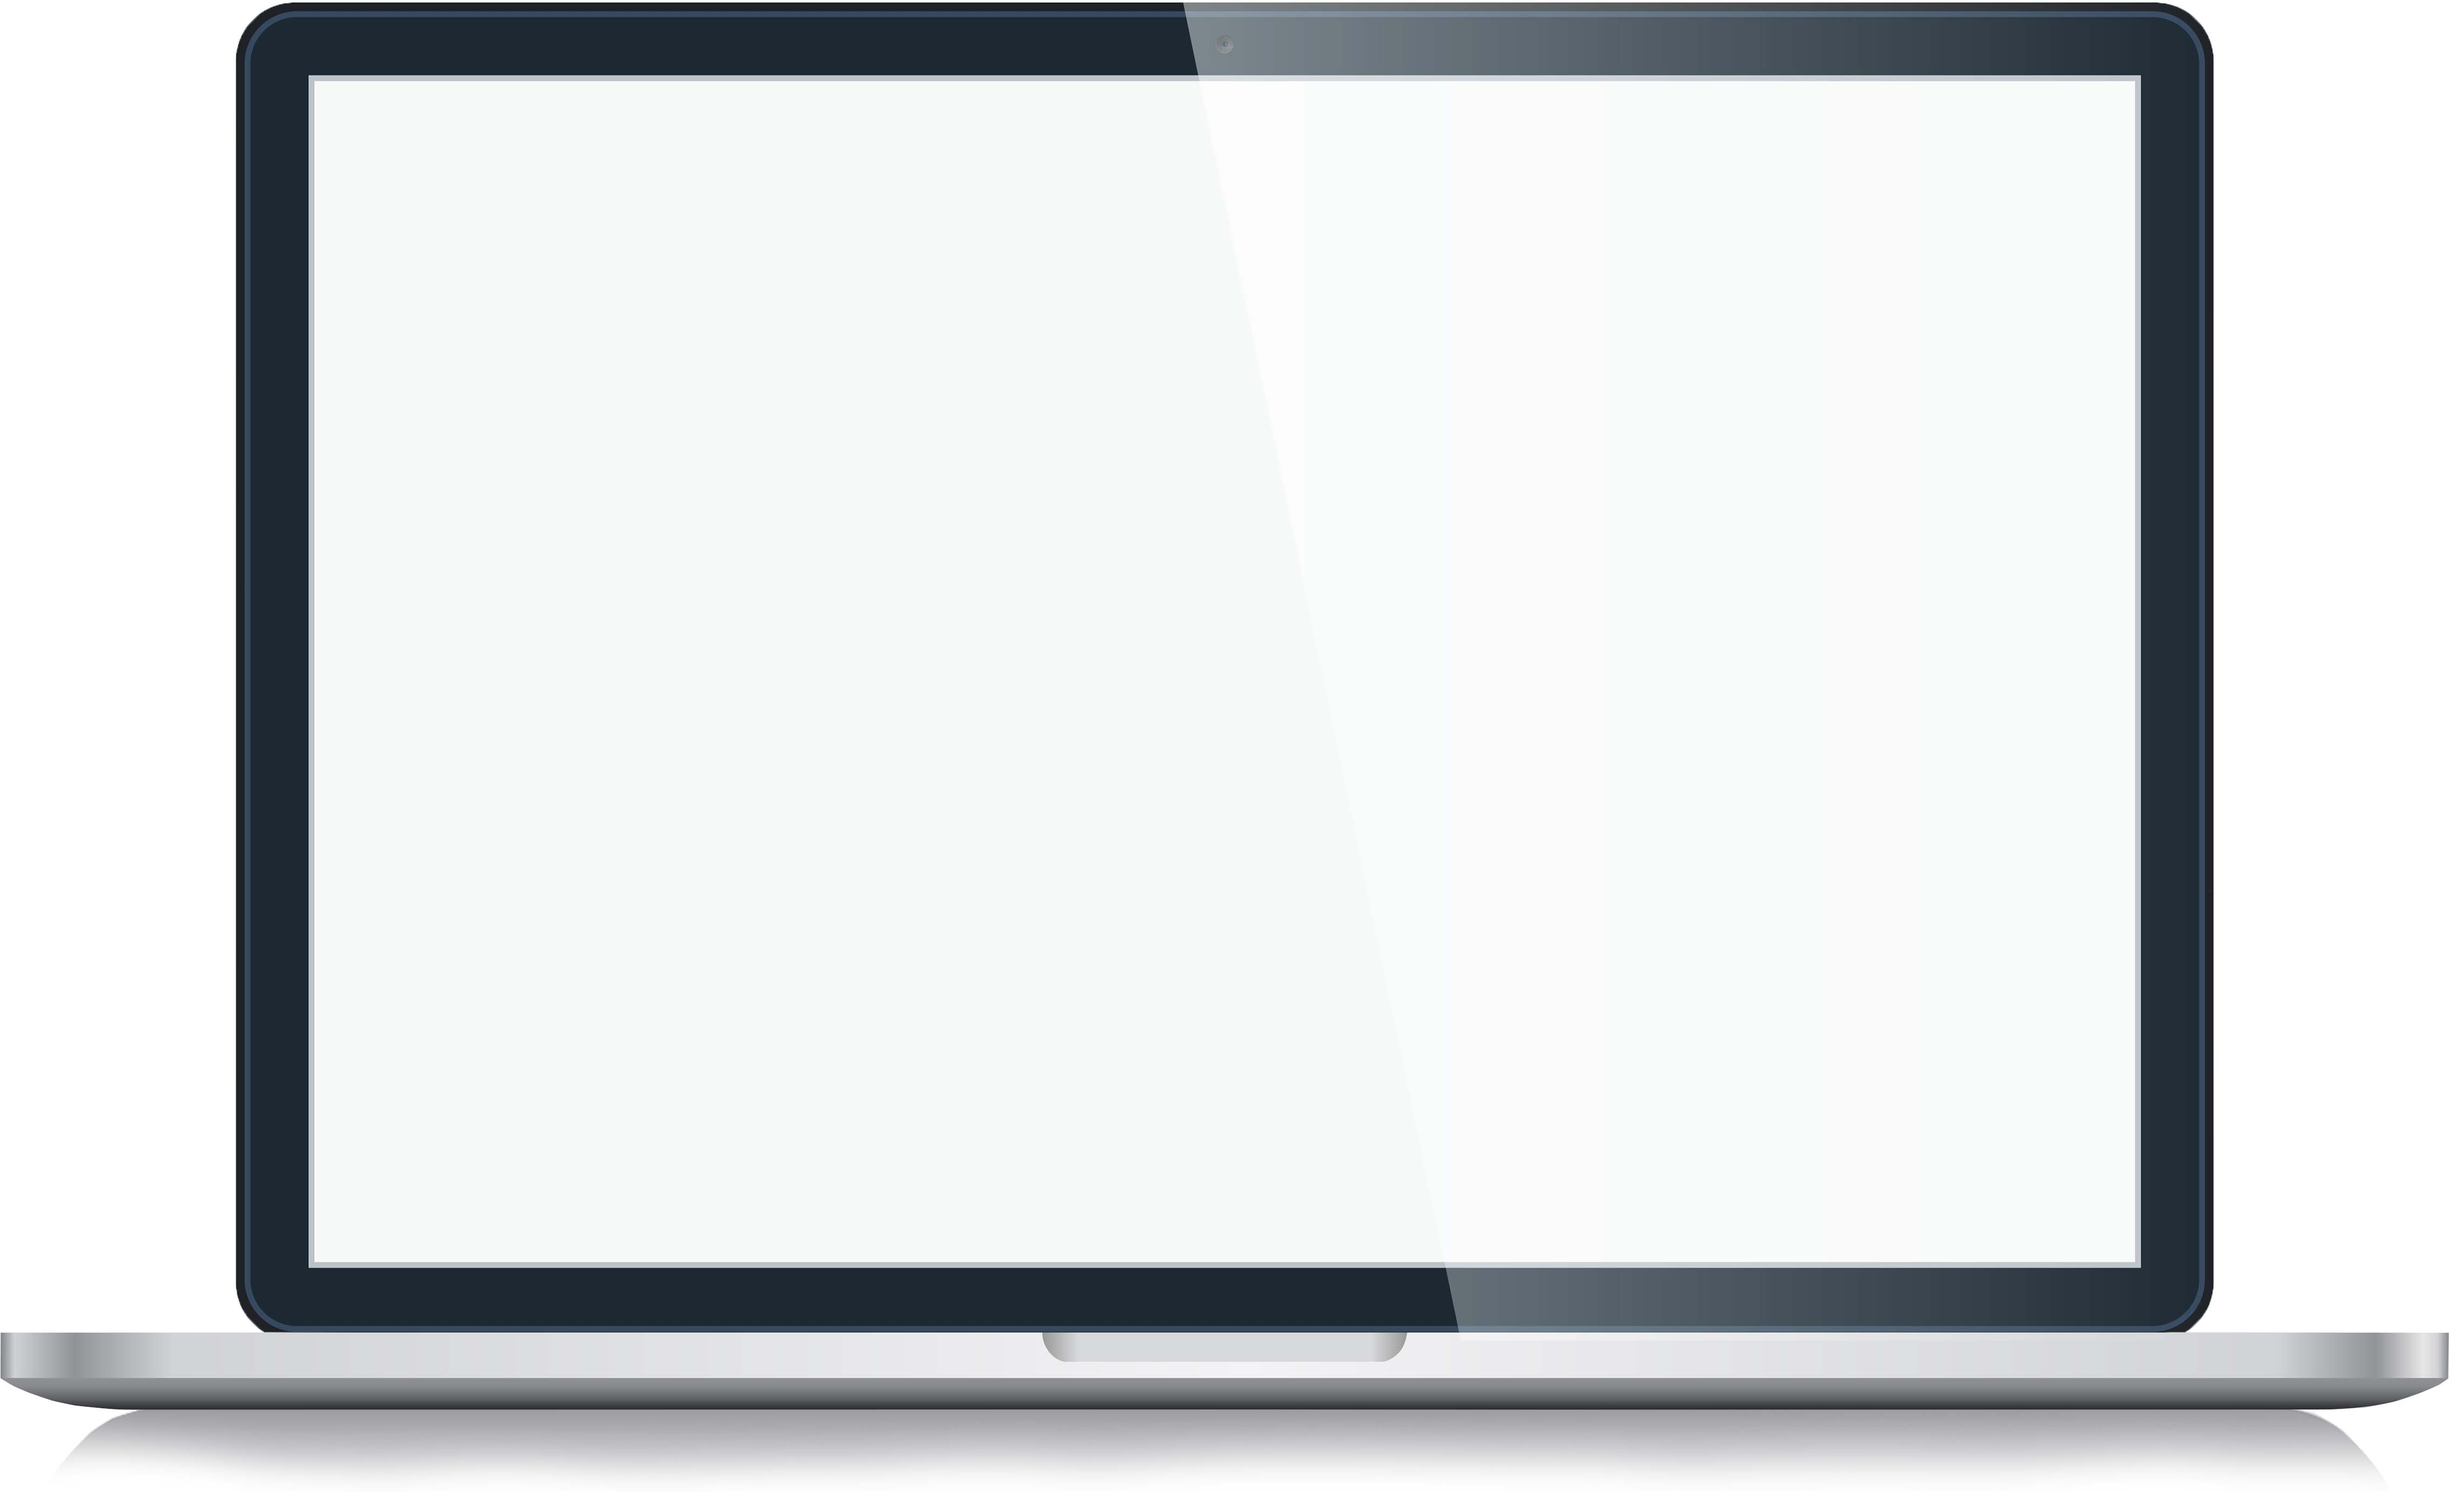
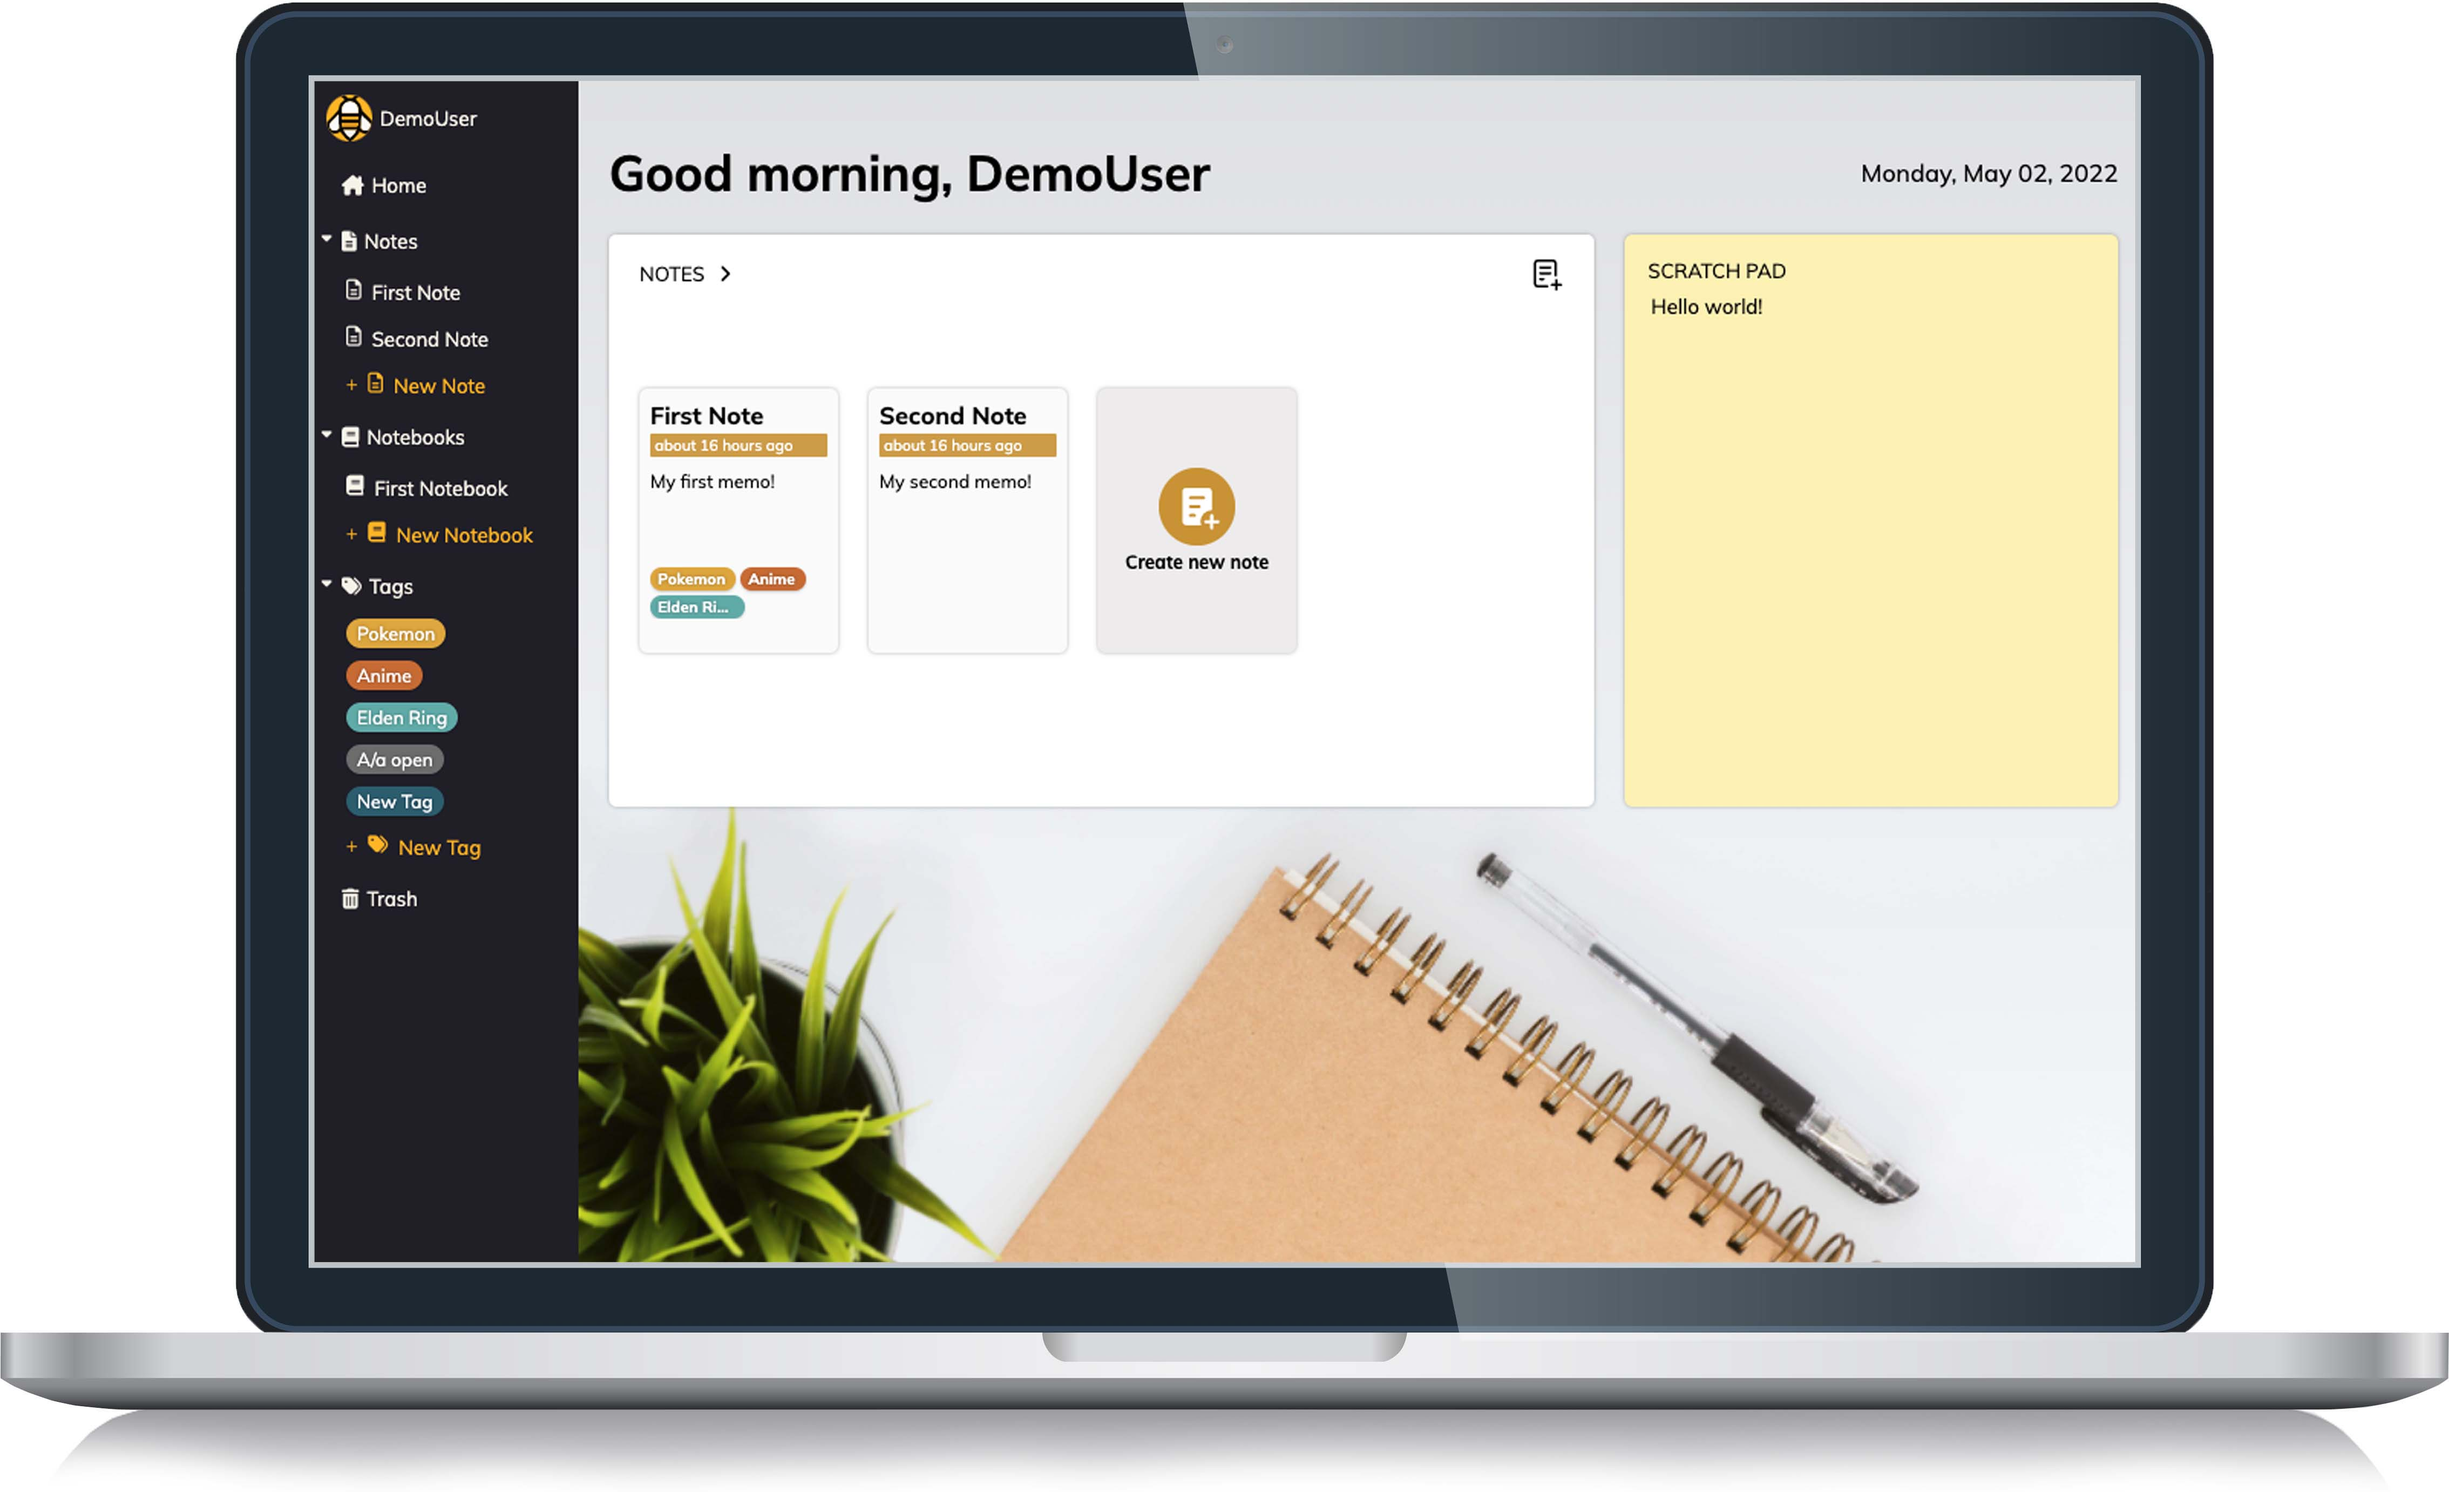
set up edit note

diff --git a/frontend/src/components/DesktopPage/Tags/notePage.js b/frontend/src/components/DesktopPage/Tags/notePage.js
@@ -1,42 +1,63 @@
 import { useParams, Link } from "react-router-dom";
-import { useRef, useState } from "react";
+import { useRef, useState, useEffect } from "react";
 import { useSelector, useDispatch } from "react-redux";
-import { add, format, parseISO } from "date-fns";
+import { formatDistanceToNow, parseISO } from "date-fns";
+
+import * as notesActions from "../../../store/notes";
 
 const NotePage = () => {
 	const { tagId, noteId } = useParams();
-	// const dispatch = useDispatch();
+	const dispatch = useDispatch();
 	const note = useSelector((state) => state.notes[noteId]);
 	// const userId = useSelector((state) => state.session.user.id);
 	const notebooks = Object.values(useSelector((state) => state.notebooks));
 
-	const [title, setTitle] = useState(note?.title);
-	const [content, setContent] = useState(note?.content);
+	const [title, setTitle] = useState("");
+	const [content, setContent] = useState("");
 	const [disableEdit, setDisableEdit] = useState(true);
 
 	const moveDD = useRef();
 	const modalBg = useRef();
 	const saveBtn = useRef();
 	const addTag = useRef();
+	const notification = useRef();
+
+	const saveTooltip = useRef();
+	const editTooltip = useRef();
+	const deleteTooltip = useRef();
 
 	const openDD = () => {
-		moveDD.current.classList.remove("hidden");
-		modalBg.current.classList.remove("hidden");
+		moveDD?.current.classList.remove("hidden");
+		modalBg?.current.classList.remove("hidden");
 	};
 
 	const editNote = () => {
 		setDisableEdit(false);
-		saveBtn.current.classList.remove("hidden");
-		addTag.current.classList.remove("hidden");
+		saveBtn?.current.classList.remove("hidden");
+		addTag?.current.classList.remove("hidden");
 	};
 
 	const saveNote = () => {
-		// dispatch and save
+		const notebookId = note.notebookId;
+		const noteToUpdate = { title, content, notebookId };
+
+		// get tags as an array
+		dispatch(notesActions.editNote(noteId, noteToUpdate));
 
 		setDisableEdit(true);
-		saveBtn.current.classList.add("hidden");
-		addTag.current.classList.add("hidden");
+		saveBtn?.current.classList.add("hidden");
+		addTag?.current.classList.add("hidden");
+		notification?.current.classList.remove("notification-move");
+
+		setTimeout(() => {
+			notification?.current.classList.add("notification-move");
+		}, 2000);
 	};
+
+	useEffect(() => {
+		setTitle(note.title);
+		setContent(note.content);
+	}, [note?.title, note?.content]);
 
 	return (
 		<>
@@ -44,18 +65,18 @@ const NotePage = () => {
 				className="modalBg5 hidden"
 				ref={modalBg}
 				onClick={() => {
-					moveDD.current.classList.add("hidden");
-					modalBg.current.classList.add("hidden");
+					moveDD?.current.classList.add("hidden");
+					modalBg?.current.classList.add("hidden");
 				}}
 			></div>
 			<div className="note-view-notebook-wrap">
 				<div className="pad5">
 					<Link
-						to={`/notebook/${note?.Notebook.id}`}
+						to={`/notebook/${note?.Notebook?.id}`}
 						className="note-view-notebook"
 					>
 						<i className="fa-solid fa-book"></i>
-						{note?.Notebook.name}
+						{note?.Notebook?.name}
 					</Link>
 					<div className="notebook-move-dd-wrap">
 						<div className="note-view-notebook-move" onClick={openDD}>
@@ -73,17 +94,51 @@ const NotePage = () => {
 					</div>
 				</div>
 				<div className="note-view-notebook-edit">
-					<i
-						className="fa-solid fa-floppy-disk hidden"
-						ref={saveBtn}
-						onClick={saveNote}
-					></i>
-					<i className="fa-solid fa-pen-to-square" onClick={editNote}></i>
-					<i className="fa-solid fa-trash-can"></i>
+					<div className="tooltip">
+						<i
+							className="fa-solid fa-floppy-disk hidden"
+							ref={saveBtn}
+							onClick={saveNote}
+							onMouseEnter={() =>
+								saveTooltip?.current.classList.toggle("hidden")
+							}
+							onMouseLeave={() =>
+								saveTooltip?.current.classList.toggle("hidden")
+							}
+						></i>
+						<span className="icon-tooltiptext hidden" ref={saveTooltip}>
+							Save
+						</span>
+					</div>
+					<div
+						className="tooltip"
+						onMouseEnter={() => editTooltip.current.classList.toggle("hidden")}
+						onMouseLeave={() => editTooltip.current.classList.toggle("hidden")}
+					>
+						<i className="fa-solid fa-pen-to-square" onClick={editNote}></i>
+						<span className="icon-tooltiptext hidden" ref={editTooltip}>
+							Edit
+						</span>
+					</div>
+					<div
+						className="tooltip"
+						onMouseEnter={() =>
+							deleteTooltip?.current.classList.toggle("hidden")
+						}
+						onMouseLeave={() =>
+							deleteTooltip?.current.classList.toggle("hidden")
+						}
+					>
+						<i className="fa-solid fa-trash-can"></i>
+						<span className="icon-tooltiptext hidden" ref={deleteTooltip}>
+							Delete
+						</span>
+					</div>
 				</div>
 			</div>
 			<div className="note-view-update">
-				Last edited on {note && format(parseISO(note?.updatedAt), "MMM d, y")}
+				Last edited on{" "}
+				{note && formatDistanceToNow(parseISO(note?.updatedAt), "MMM d, y")} ago
 			</div>
 			<div onClick={editNote}>
 				<input
@@ -115,6 +170,9 @@ const NotePage = () => {
 					</div>
 				))}
 				<i className="fa-solid fa-circle-plus hidden" ref={addTag}></i>
+			</div>
+			<div className="notification-div notification-move" ref={notification}>
+				<i className="fa-solid fa-floppy-disk"></i>Note Saved
 			</div>
 		</>
 	);

diff --git a/frontend/src/css/tooltips.css b/frontend/src/css/tooltips.css
@@ -32,7 +32,7 @@
 	width: fit-content;
 	background-color: var(--mid2);
 	color: black;
-  font-weight: bold;
+	font-weight: bold;
 	text-align: center;
 	padding: 5px 10px;
 	border-radius: 6px;
@@ -42,16 +42,42 @@
 	top: -5px;
 	left: 250%;
 	transition: all 0.25s;
-  box-shadow: 3px 3px 3px rgba(0, 0, 0, 0.3);
+	box-shadow: 3px 3px 3px rgba(0, 0, 0, 0.3);
 }
 
 .tooltip .navTooltiptext::after {
 	content: " ";
 	position: absolute;
-  top: 30%;
-	right: 100%;  /* To the left of the tooltip */
+	top: 30%;
+	right: 100%; /* To the left of the tooltip */
 	margin-left: -5px;
 	border-width: 5px;
 	border-style: solid;
-	border-color: transparent  var(--mid2) transparent transparent;
+	border-color: transparent var(--mid2) transparent transparent;
+}
+
+.tooltip .icon-tooltiptext {
+	width: fit-content;
+	background-color: var(--mid2);
+	color: black;
+	text-align: center;
+	padding: 5px 10px;
+	border-radius: 6px;
+	position: absolute;
+	font-size: 12px;
+	z-index: 1;
+	top: 120%;
+	left: -10px;
+	transition: all 0.25s;
+}
+
+.tooltip .icon-tooltiptext::after {
+	content: " ";
+	position: absolute;
+	bottom: 100%;
+	left: 50%;
+	margin-left: -5px;
+	border-width: 5px;
+	border-style: solid;
+	border-color: transparent transparent var(--mid2) transparent;
 }

diff --git a/backend/routes/api/notes.js b/backend/routes/api/notes.js
@@ -43,4 +43,35 @@ router.get(
 	})
 );
 
+router.put(
+	"/notes/:noteId(\\d+)",
+	requireAuth,
+	asyncHandler(async (req, res) => {
+		const noteId = parseInt(req.params.noteId, 10);
+		const { title, content, notebookId } = req.body;
+
+		const noteToUpdate = await Note.findByPk(noteId);
+
+		if (title) {
+			noteToUpdate.title = title;
+		}
+
+		if (content) {
+			noteToUpdate.content = content;
+		}
+
+		if (notebookId) {
+			noteToUpdate.notebookId = notebookId;
+		}
+
+		await noteToUpdate.save();
+
+		const note = await Note.findByPk(noteId, {
+			include: Tag,
+		});
+
+		res.json(note);
+	})
+);
+
 module.exports = router;

diff --git a/frontend/src/components/DesktopPage/Tags/noteCard.js b/frontend/src/components/DesktopPage/Tags/noteCard.js
@@ -9,7 +9,7 @@ const NoteCard = ({ tagId }) => {
 
 	if (notes && notes[0]) {
 		return notes.map((note) => (
-			<NavLink to={`/tags/${tagId}/notes/${note.id}`} key={note.id}>
+			<Link to={`/tags/${tagId}/notes/${note.id}`} key={note.id}>
 				<div className="note-box">
 					<div className="note-title">{note.title}</div>
 					<div className="note-content">{note.content}</div>
@@ -29,7 +29,7 @@ const NoteCard = ({ tagId }) => {
 						{formatDistanceToNow(parseISO(note.updatedAt))} ago
 					</div>
 				</div>
-			</NavLink>
+			</Link>
 		));
 	} else {
 		return (

diff --git a/frontend/src/store/notes.js b/frontend/src/store/notes.js
@@ -27,6 +27,17 @@ export const getAllNotes = (userId) => async (dispatch) => {
 	return response;
 };
 
+export const editNote = (noteId, note) => async (dispatch) => {
+	const response = await csrfFetch(`/api/notes/${noteId}`, {
+		method: "PUT",
+		body: JSON.stringify(note),
+	});
+	const data = await response.json();
+	dispatch(addUpdateNote(data));
+	console.log(data);
+	return response;
+};
+
 // Reducer
 const initialState = { notes: null };
 

diff --git a/frontend/src/css/notification.css b/frontend/src/css/notification.css
@@ -1,0 +1,19 @@
+.notification-div {
+	position: fixed;
+	top: 10px;
+	left: 45%;
+	background-color: var(--mid2);
+	padding: 5px 20px;
+	border-radius: 3px;
+	font-size: 12px;
+	box-shadow: 3px 3px 3px rgba(0, 0, 0, 0.3);
+	color: var(--dark1);
+	transition: all 0.5s;
+}
+.notification-div i {
+	padding-right: 5px;
+}
+
+.notification-move {
+	top: -100px;
+}

diff --git a/frontend/src/components/Navigation/tags.js b/frontend/src/components/Navigation/tags.js
@@ -268,7 +268,13 @@ const Tags = () => {
 				</form>
 			</div>
 
-			<div className="nav-div" onClick={() => history.push("/tags")}>
+			<div
+				className="nav-div"
+				onClick={(e) => {
+					e.stopPropagation();
+					setShowTags(!showTags);
+				}}
+			>
 				<div className="nav-div-left">
 					<div
 						className="nav-caret"

diff --git a/frontend/src/css/noteTemplate.css b/frontend/src/css/noteTemplate.css
@@ -215,6 +215,7 @@
 	gap: 10px;
 	font-size: 16px;
 	color: gray;
+	padding-right: 20px;
 }
 
 .note-view-notebook-edit i {
@@ -246,6 +247,8 @@
 .note-view-content {
 	padding: 0px 20px 20px 20px;
 	border: none;
+	width: 100%;
+	height: 100%;
 }
 
 .note-view-tags {

diff --git a/frontend/src/index.css b/frontend/src/index.css
@@ -13,6 +13,7 @@
 @import url("./css/desktop.css");
 @import url("./css/desktop.css");
 @import url("./css/noteTemplate.css");
+@import url("./css/notification.css");
 
 :root {
 	/* color-scheme: light dark; */
